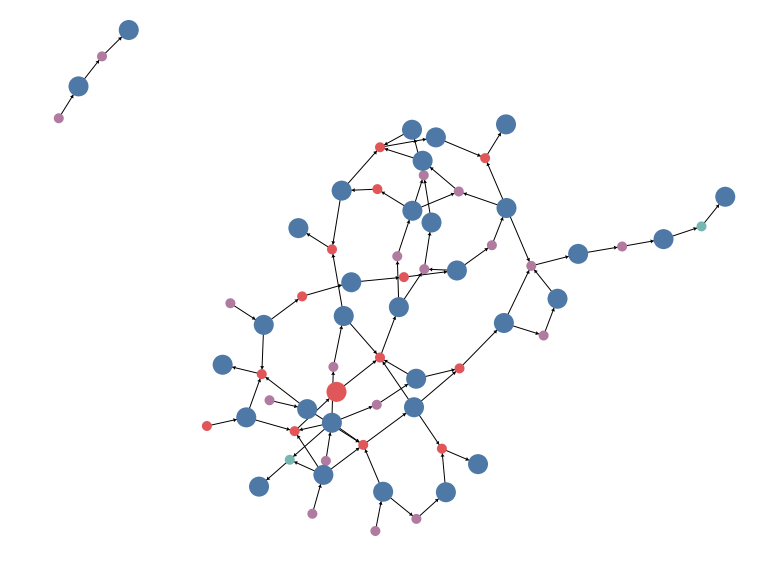
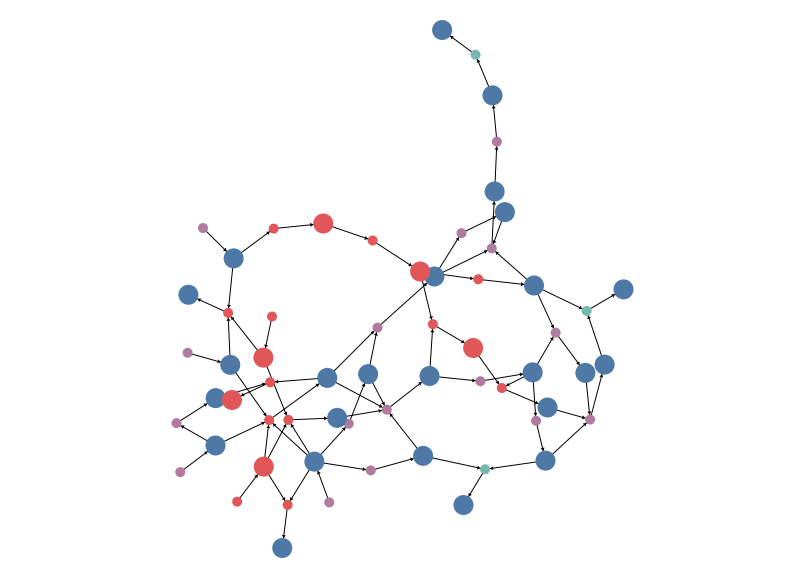
Modified input animal data, updated screenshots.

diff --git a/src/test/java/graphing/GraphVisualizer.java b/src/test/java/graphing/GraphVisualizer.java
@@ -11,6 +11,7 @@ import java.text.MessageFormat;
 abstract class GraphVisualizer implements ViewerListener {
     Graph graph;
     ViewerPipe fromViewer;
+    private boolean updated = true;
 
     private boolean loop = true;
 
@@ -31,21 +32,30 @@ abstract class GraphVisualizer implements ViewerListener {
     public abstract void buttonReleased(String id);
 
     final void visualize() throws InterruptedException {
+        visualize(true);
+    }
+
+    final void visualize(boolean saveScreenshot) throws InterruptedException {
         setupGraph();
         setupNodes();
         int iteration = 0;
-        Thread.sleep(2000);
-        saveScreenshot(String.valueOf(iteration));
         long lastTime = System.currentTimeMillis();
+        while (System.currentTimeMillis() - lastTime < getSleepDelay()) {};
+        if (saveScreenshot) {
+            saveScreenshot(String.valueOf(iteration));
+        }
+        lastTime = System.currentTimeMillis();
         while (loop) {
             fromViewer.pump();
-            if (System.currentTimeMillis() - lastTime >= getSleepDelay()) {
-                iteration++;
-                boolean updated = updateGraph();
-                if (updated) {
-                    saveScreenshot(String.valueOf(iteration));
+            if (updated) {
+                if (System.currentTimeMillis() - lastTime >= getSleepDelay()) {
+                    iteration++;
+                    updated = updateGraph();
+                    if (updated && saveScreenshot) {
+                        saveScreenshot(String.valueOf(iteration));
+                    }
+                    lastTime = System.currentTimeMillis();
                 }
-                lastTime = System.currentTimeMillis();
             }
         }
     }

diff --git a/src/test/java/graphing/KnnGraphVisualizer.java b/src/test/java/graphing/KnnGraphVisualizer.java
@@ -16,7 +16,7 @@ import java.util.Set;
 abstract class KnnGraphVisualizer extends GraphVisualizer {
     private static final int NUM_INITIAL_ACTIVE_TAGS = 5;
     private static final String KNN_STYLE_SHEET_PATH = "graphs/knn_graph_style_sheet.css";
-    private static final String ANIMAL_DATA_PATH = "data/animalData.txt";
+    private static final String ANIMAL_DATA_PATH = "data/animalData2.txt";
     private Set<String> activeIDs;
 
     KnowledgeNodeNetwork knn;
@@ -87,7 +87,7 @@ abstract class KnnGraphVisualizer extends GraphVisualizer {
     @Override
     boolean updateGraph() {
         Set<Tag> activatedTags = search();
-        for (Tag t : activatedTags) {
+        for (Tag t : knn.getActiveTags()) {
             String id = t.toString();
             activeIDs.add(id);
             updateNodeTagClass(id);

diff --git a/src/test/java/graphing/KnnForwardThinkVisualizer.java b/src/test/java/graphing/KnnForwardThinkVisualizer.java
@@ -3,6 +3,7 @@ package graphing;
 import tags.Tag;
 
 import java.text.MessageFormat;
+import java.util.Collections;
 import java.util.Set;
 
 class KnnForwardThinkVisualizer extends KnnGraphVisualizer {
@@ -13,10 +14,10 @@ class KnnForwardThinkVisualizer extends KnnGraphVisualizer {
 
     @Override
     Set<Tag> search() {
-        return knn.forwardThink(1);
+        return Collections.emptySet();
     }
 
     public static void main(String[] args) throws InterruptedException {
-        new KnnForwardThinkVisualizer().visualize();
+        new KnnForwardThinkVisualizer().visualize(false);
     }
 }

diff --git a/src/test/java/graphing/KnnBackwardThinkVisualizer.java b/src/test/java/graphing/KnnBackwardThinkVisualizer.java
@@ -18,6 +18,6 @@ class KnnBackwardThinkVisualizer extends KnnGraphVisualizer {
     }
 
     public static void main(String[] args) throws InterruptedException {
-        new KnnBackwardThinkVisualizer().visualize();
+        new KnnBackwardThinkVisualizer().visualize(true);
     }
 }

diff --git a/src/test/java/graphing/KnnLambdaThinkVisualizer.java b/src/test/java/graphing/KnnLambdaThinkVisualizer.java
@@ -30,6 +30,6 @@ class KnnLambdaThinkVisualizer extends KnnGraphVisualizer {
     }
 
     public static void main(String[] args) throws InterruptedException {
-        new KnnLambdaThinkVisualizer().visualize();
+        new KnnLambdaThinkVisualizer().visualize(true);
     }
 }

diff --git a/README.md b/README.md
@@ -7,7 +7,7 @@ Prometheus AI model, containing the following layers:
 
 The KNN and ES are still under active development, and the NN and META are basic skeletons at this point.
 
-![alt text](docs/knn_graph.png)
+![alt text](graphs/knn_new.png)
 
 ## Contributing
 To contribute changes to the code base, create a branch and submit a [pull request](https://help.github.com/articles/about-pull-requests/). The branch merge will require a code review and that all tests (in the [`test`](src/test) directory) are passed. These tests will automatically be run at every change to the main branch with [Travis CI](https://travis-ci.com/seanstappas/prometheus-ai).
